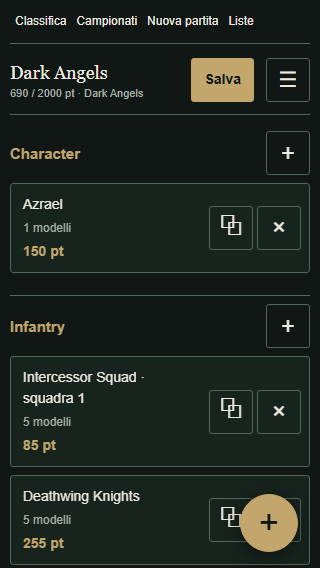
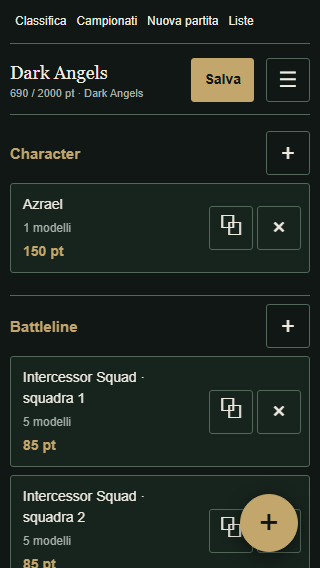
Distingue le combinazioni dei Nob e mantiene Battleline nelle categorie

Changed region(s): [[0.0312, 0.868, 0.9688, 1.0], [0.6562, 0.868, 0.7812, 0.9577], [0.0312, 0.5687, 0.25, 0.5986]]

diff --git a/Cangiolone.com/builder-workbench.js b/Cangiolone.com/builder-workbench.js
@@ -9,14 +9,10 @@ const wbId=()=>Array.from(crypto.getRandomValues(new Uint8Array(16)),n=>n.toStri
 const wbDescription=row=>row.description||(builderUi.catalog.texts||[]).find(t=>t.id===row.descriptionRef)?.description||'';
 const wbPlus=value=>/^\d+$/.test(String(value))?value+'+':value;
 const wbCategories=['Epic Hero','Character','Battleline','Infantry','Mounted/Beast','Vehicle','Other'];
-const wbMobileCategories=['Character','Infantry','Vehicle','Mounted','Other'];
+const wbMobileCategories=['Character','Battleline','Infantry','Mounted','Vehicle','Other'];
 function wbMobileCategory(unit){
-  const keys=unit?.keywords||'';
-  if(/\bCharacter\b/i.test(keys)||wbCategory(unit)==='Epic Hero')return 'Character';
-  if(/\bVehicle\b/i.test(keys)||wbCategory(unit)==='Vehicle')return 'Vehicle';
-  if(/\b(Mounted|Beast)\b/i.test(keys))return 'Mounted';
-  if(/\bInfantry\b/i.test(keys)||wbCategory(unit)==='Battleline')return 'Infantry';
-  return 'Other';
+  if(!unit)return 'Other';
+  const category=wbCategory(unit);return category==='Epic Hero'?'Character':category==='Mounted/Beast'?'Mounted':category;
 }
 function wbMobileHeader(totals){
   const a=builderUi.army,detail=workbench.pane==='detail';
@@ -185,7 +181,7 @@ function wbSizes(unit){return [...new Set(unit.points.map(p=>p.models))].sort((a
 function wbInstanceName(entry){const unit=wbUnits().get(entry.unitId),copies=builderUi.army.entries.filter(e=>e.unitId===entry.unitId);return unit.name+(copies.length>1?' · squadra '+(copies.indexOf(entry)+1):'');}
 function wbArmySettings(open=false){
   const a=builderUi.army,f=wbFaction();
-  return `<details class="wb-configuration wb-army-settings" ${open?'open':''}><summary><strong>${esc(f.name)}</strong><span>${a.limit} pt · ${a.dpLimit} DP</span><span>Configura armata</span></summary><div class="wb-army-settings-grid"><label>Fazione<select id="wb-faction">${builderUi.catalog.factions.filter(x=>x.id===f.id||builderPlayableFactions().some(p=>p.id===x.id)).map(x=>`<option value="${x.id}" ${x.id===f.id?'selected':''}>${esc(x.name)}</option>`).join('')}</select></label><div class="wb-fields">${wbNumber('Limite punti','limit',a.limit,100,5000,100)}${wbNumber('DP','dpLimit',a.dpLimit,0,20,1,[1000,2000].includes(a.limit))}</div><div class="wb-detachment-summary"><button id="wb-detachments" type="button">Distaccamenti · ${a.detachmentIds.length} selezionati</button><label>Disposizione<select id="wb-disposition">${wbDispositionOptions()}</select></label><div class="wb-detachment-recap">${wbDetachments().map(d=>`<button class="wb-detachment-link" data-wb-detachment-rule="${esc(d.id)}">${esc(d.name)}</button>`).join('')||'<p class="wb-muted">Nessun distaccamento selezionato</p>'}</div>${wbArmyRules()}</div></div></details>`;
+  return `<details class="wb-configuration wb-army-settings" ${open?'open':''}><summary><strong>${esc(f.name)}</strong><span>${a.limit} pt · ${a.dpLimit} DP</span><span>Configura armata</span></summary><div class="wb-army-settings-grid"><label>Fazione<select id="wb-faction">${builderUi.catalog.factions.filter(x=>x.id===f.id||builderPlayableFactions().some(p=>p.id===x.id)).map(x=>`<option value="${x.id}" ${x.id===f.id?'selected':''}>${esc(x.name)}</option>`).join('')}</select></label><div class="wb-fields">${wbNumber('Limite punti','limit',a.limit,100,5000,100)}${wbNumber('DP','dpLimit',a.dpLimit,0,20,1,[1000,2000].includes(a.limit))}</div><div class="wb-detachment-summary"><button id="wb-detachments" type="button">Distaccamenti · ${a.detachmentIds.length} selezionati</button><label>Disposizione<select id="wb-disposition">${wbDispositionOptions()}</select></label><div class="wb-detachment-recap">${wbDetachments().map(d=>`<button class="wb-detachment-link" data-wb-detachment-rule="${esc(d.id)}">${esc(d.name)}</button>`).join('')||'<p class="wb-muted">Nessun distaccamento selezionato</p>'}</div></div></div></details>`;
 }
 function wbOpenFilters(trigger){
   const dialog=wbModal('Filtri del catalogo',`<fieldset class="wb-filters"><legend>Mostra unità</legend>${[['legends','Legends'],['allies','Alleati'],['titanic','Titanic']].map(([key,label])=>`<label class="wb-check"><input type="checkbox" data-wb-filter="${key}" ${workbench.filters[key]?'checked':''}>${label}</label>`).join('')}</fieldset>`,trigger);

diff --git a/Cangiolone.com/builder-engine.js b/Cangiolone.com/builder-engine.js
@@ -205,10 +205,11 @@ function beEntryBasePrice(unit,entry,ordinal){
   return price;
 }
 function beChoiceCost(recipe,choice){return Object.entries(choice.weapons).reduce((sum,[id,n])=>sum+n*Number(recipe.weapons.find(w=>w.id===id)?.cost||0),0);}
+function beChoiceLabel(recipe,choice){return Object.entries(choice.weapons).map(([id,n])=>n+' '+(recipe.weapons.find(w=>w.id===id)?.name||id)).join(' + ')||choice.name;}
 function beLoadoutGroupHtml(unit,entry,g){
   const compact=g.choices.length>12,shown=compact?g.choices.filter(c=>c.id===g.default||(entry.loadoutSelections[g.id]?.[c.id]||0)>0):g.choices;
-  const choiceRow=c=>{const n=entry.loadoutSelections[g.id]?.[c.id]||0;return `<div class="wb-loadout-choice"><span>${esc(c.name)}${beChoiceCost(unit.loadoutRecipe,c)?`<small class="wb-gear-cost">+${beChoiceCost(unit.loadoutRecipe,c)} pt ${g.unitGear?"per unità":"per modello"}</small>`:""}</span><div class="wb-quantity"><button id="choice-${g.id}-${c.id}-minus" data-wb-choice="${g.id}" data-wb-option="${c.id}" data-wb-delta="-1" aria-label="Diminuisci ${esc(g.name+' '+c.name)}" ${!beChoiceAllowed(unit,entry,g,c.id,-1)?'disabled':''}>−</button><output>${n}</output><button id="choice-${g.id}-${c.id}-plus" data-wb-choice="${g.id}" data-wb-option="${c.id}" data-wb-delta="1" aria-label="Aumenta ${esc(g.name+' '+c.name)}" ${!beChoiceAllowed(unit,entry,g,c.id,1)?'disabled':''}>+</button></div></div>`;};
-  const picker=compact?`<label>Altra configurazione<select data-wb-loadout-picker="${g.id}"><option value="">Scegli equipaggiamento</option>${g.choices.filter(c=>!shown.includes(c)).map(c=>`<option value="${c.id}" ${beChoiceAllowed(unit,entry,g,c.id,1)?'':'disabled'}>${esc(c.name)}${beChoiceCost(unit.loadoutRecipe,c)?" (+"+beChoiceCost(unit.loadoutRecipe,c)+" pt "+(g.unitGear?"per unità":"per modello")+")":""}</option>`).join('')}</select></label>`:'';
+  const choiceRow=c=>{const n=entry.loadoutSelections[g.id]?.[c.id]||0;return `<div class="wb-loadout-choice"><span>${esc(beChoiceLabel(unit.loadoutRecipe,c))}${beChoiceCost(unit.loadoutRecipe,c)?`<small class="wb-gear-cost">+${beChoiceCost(unit.loadoutRecipe,c)} pt ${g.unitGear?"per unità":"per modello"}</small>`:""}</span><div class="wb-quantity"><button id="choice-${g.id}-${c.id}-minus" data-wb-choice="${g.id}" data-wb-option="${c.id}" data-wb-delta="-1" aria-label="Diminuisci ${esc(g.name+' '+beChoiceLabel(unit.loadoutRecipe,c))}" ${!beChoiceAllowed(unit,entry,g,c.id,-1)?'disabled':''}>−</button><output>${n}</output><button id="choice-${g.id}-${c.id}-plus" data-wb-choice="${g.id}" data-wb-option="${c.id}" data-wb-delta="1" aria-label="Aumenta ${esc(g.name+' '+beChoiceLabel(unit.loadoutRecipe,c))}" ${!beChoiceAllowed(unit,entry,g,c.id,1)?'disabled':''}>+</button></div></div>`;};
+  const picker=compact?`<label>Altra configurazione<select data-wb-loadout-picker="${g.id}"><option value="">Scegli equipaggiamento</option>${g.choices.filter(c=>!shown.includes(c)).map(c=>`<option value="${c.id}" ${beChoiceAllowed(unit,entry,g,c.id,1)?'':'disabled'}>${esc(beChoiceLabel(unit.loadoutRecipe,c))}${beChoiceCost(unit.loadoutRecipe,c)?" (+"+beChoiceCost(unit.loadoutRecipe,c)+" pt "+(g.unitGear?"per unità":"per modello")+")":""}</option>`).join('')}</select></label>`:'';
   return `<fieldset class="wb-loadout-group"><legend>${esc(compact?(unit.loadoutRecipe.models.find(m=>m.id===g.model)?.name||unit.name)+' · Equipaggiamento':g.name)}${g.sharedPer?' · massimo '+Math.floor(entry.models/g.sharedPer)+' nella squadra':''}</legend>${shown.map(choiceRow).join('')}${picker}</fieldset>`;
 }
 function beLoadoutHtml(unit,entry){

diff --git a/docs/builder-interfaccia.md b/docs/builder-interfaccia.md
@@ -4,7 +4,7 @@ Aggiornamento del 19 novembre 2026 dopo il riscontro su iPhone. Questo flusso va
 
 Il nome della lista viene chiesto durante la creazione, insieme a esercito e formato. Entrando si vede l'armata, con nome, punti e Salva in vista. Il menu apre cambio Build/Play, rinomina, configurazione dell'armata/distaccamenti, esportazioni, backup e ritorno all'archivio. In Play offre anche gli stratagemmi generali. Sul telefono la navigazione generale occupa una sola riga scorrevole e l'intestazione estesa del sito lascia spazio al builder.
 
-L'armata è raggruppata in Character, Infantry, Vehicle e Mounted; eventuali schede fuori da questi tipi restano in Other, senza nasconderle o chiamarle Infantry. Gli alleati seguono il loro tipo. I gruppi attached rimangono uniti nella categoria del bodyguard. Ogni categoria ha un pulsante + per aprire il catalogo filtrato. Il pulsante flottante apre tutto il catalogo e scompare nei dettagli, in Play e mentre è aperto un popup. La ricerca ha un pulsante × esplicito per cancellare il testo.
+L'armata è raggruppata, nell'ordine, in Character, Battleline, Infantry, Mounted e Vehicle; eventuali schede fuori da questi tipi restano in Other, senza nasconderle o chiamarle Infantry. Gli alleati seguono il loro tipo. I gruppi attached rimangono uniti nella categoria del bodyguard. Ogni categoria ha un pulsante + per aprire il catalogo filtrato. Il pulsante flottante apre tutto il catalogo e scompare nei dettagli, in Play e mentre è aperto un popup. La ricerca ha un pulsante × esplicito per cancellare il testo.
 
 Aggiungere dal catalogo mantiene visibile l'armata, senza aprire automaticamente la configurazione. Toccare una voce dell'armata apre la scheda con profili e controlli. Sul telefono il dettaglio occupa il pannello e ha un pulsante per tornare; sul desktop può affiancare l'elenco. Menu, configurazione e distaccamenti sono dialoghi scorrevoli entro l'altezza disponibile. La selezione di un distaccamento aggiorna anche il riepilogo della configurazione quando si chiude il selettore.
 
@@ -16,6 +16,10 @@ Le modalità di una stessa arma hanno un'intestazione comune con quantità e nom
 
 Le scelte di wargear a pagamento indicano esplicitamente il costo aggiuntivo per modello o per unità, anche nei selettori con molte configurazioni. Il valore deriva dai costi strutturati del catalogo: non vengono inventati sovrapprezzi dalle descrizioni.
 
+Ogni scelta mostra l'inventario completo, comprese le armi mantenute: ad esempio «Power Klaw + Kombi-rokkit» è distinguibile da «Kustom Choppa + Kombi-rokkit». Il catalogo Boyz ammetteva già le combinazioni indipendenti, ma l'etichetta mostrava soltanto l'ultima sostituzione, creando due voci apparentemente uguali. La prova sul catalogo reale verifica entrambi i Nob della squadra da venti con Klaw e Rokkit insieme.
+
+I distaccamenti già scelti compaiono soltanto come nomi cliccabili: la regola si legge nel popup. Rimossa l'espansione duplicata dentro la configurazione.
+
 ## Enhancement, Upgrade e regole
 
 Il portatore di un Enhancement deve essere un modello Character. Per Ravenwing Command Squad viene ammesso soltanto Ravenwing Champion, correggendo il CSV che estendeva Character a tutti i modelli; il server rifiuta Ancient/Apothecary come portatori. Riferimento ufficiale: [descrizione GW della Ravenwing Command Squad](https://www.warhammer-community.com/en-gb/articles/i5taZMDC/run-rings-around-your-enemies-with-the-new-ravenwing-detachment-in-codex-supplement-dark-angels/). La correzione opera anche sui cataloghi già importati.
@@ -26,7 +30,7 @@ Regole Datasheet, Wargear ed Enhancement/Upgrade sono riquadri leggibili con tes
 
 ## Verifiche e rilascio
 
-99 test automatici passati, inclusi casi di raggruppamento delle armi, modalità alternative, costi, portatore Ravenwing, Upgrade senza portatore e regole lunghe. Audit del catalogo v6 e dei profili reali passati. Verifica browser Edge headless con interazioni reali su fixture del catalogo v6, a 320/390/1440 pixel: menu, ricerca/cancellazione, aggiunta, apertura scheda, ritorno, Build/Play e popup distaccamenti. Safari e iPhone fisici non disponibili nell'ambiente: la correzione parte dalle immagini dell'utente, ma non viene dichiarata una prova su dispositivo reale.
+101 test automatici passati, inclusi casi di raggruppamento delle armi, modalità alternative, costi, portatore Ravenwing, Upgrade senza portatore, regole lunghe, etichette delle combinazioni e popup dei distaccamenti senza duplicati. Audit del catalogo v6 e dei profili reali passati, compresa la combinazione Klaw/Rokkit di entrambi i Nob. Verifica browser Edge headless con interazioni reali su fixture del catalogo v6, a 320/390/1440 pixel: menu, ricerca/cancellazione, aggiunta, apertura scheda, ritorno, Build/Play e popup distaccamenti. Safari e iPhone fisici non disponibili nell'ambiente: la correzione parte dalle immagini dell'utente, ma non viene dichiarata una prova su dispositivo reale.
 
 Per un sito che ha già ricevuto il primo pacchetto, aggiornare **solo** questi file nella directory `/cangiolone.com/warhammer/`:
 
